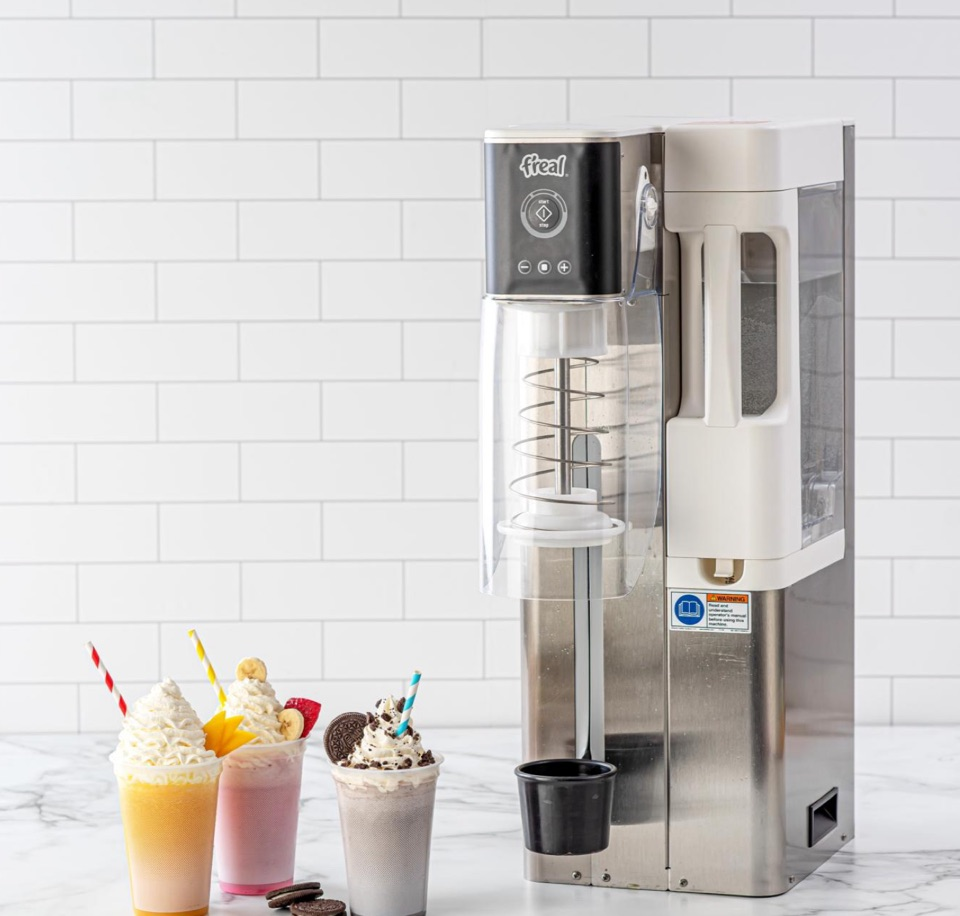
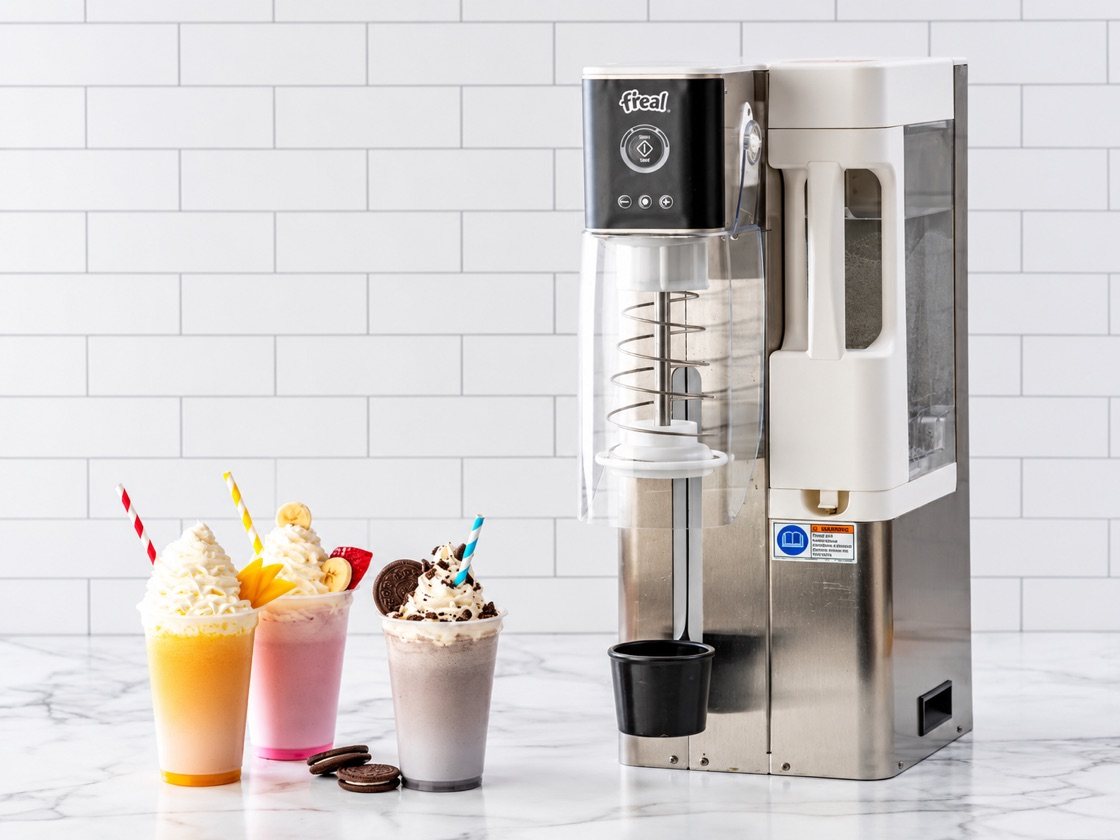
Publiceer 4976e7b

diff --git a/index.html b/index.html
@@ -9,7 +9,7 @@
 <meta name="color-scheme" content="light dark">
 <title>Virtualbite contracttool – beheer</title>
 <link rel="icon" href="data:,">
-<link rel="stylesheet" href="stijl.css?v=1792549716">
+<link rel="stylesheet" href="stijl.css?v=1792549898">
 </head>
 <body>
 <section id="login" hidden>
@@ -111,17 +111,17 @@
 
 <div id="melding" role="status"></div>
 
-<script src="config.js?v=1792549716"></script>
-<script src="gedeeld/Validatie.js?v=1792549716"></script>
-<script src="gedeeld/Adres.js?v=1792549716"></script>
-<script src="gedeeld/Berekening.js?v=1792549716"></script>
-<script src="gedeeld/Postcodes.js?v=1792549716"></script>
-<script src="gedeeld/Velden.js?v=1792549716"></script>
-<script src="gedeeld/CustomerFacing.js?v=1792549716"></script>
-<script src="gedeeld/Opvolging.js?v=1792549716"></script>
-<script src="gedeeld/Rooster.js?v=1792549716"></script>
-<script src="gedeeld/Shakes.js?v=1792549716"></script>
-<script src="gedeeld/formulier.js?v=1792549716"></script>
-<script src="app.js?v=1792549716"></script>
+<script src="config.js?v=1792549898"></script>
+<script src="gedeeld/Validatie.js?v=1792549898"></script>
+<script src="gedeeld/Adres.js?v=1792549898"></script>
+<script src="gedeeld/Berekening.js?v=1792549898"></script>
+<script src="gedeeld/Postcodes.js?v=1792549898"></script>
+<script src="gedeeld/Velden.js?v=1792549898"></script>
+<script src="gedeeld/CustomerFacing.js?v=1792549898"></script>
+<script src="gedeeld/Opvolging.js?v=1792549898"></script>
+<script src="gedeeld/Rooster.js?v=1792549898"></script>
+<script src="gedeeld/Shakes.js?v=1792549898"></script>
+<script src="gedeeld/formulier.js?v=1792549898"></script>
+<script src="app.js?v=1792549898"></script>
 </body>
 </html>

diff --git a/gedeeld/Shakes.js b/gedeeld/Shakes.js
@@ -45,7 +45,7 @@ function shakesStapHtml(esc) {
     return '<div class="sh-blok">' + (kop ? '<div class="sub-label">' + kop + '</div>' : '') + inhoud + '</div>';
   };
   return '<div class="shakes-stap">' +
-    '<img class="sh-foto" src="freal/blender.jpg?v=4" alt="Drie thick shakes naast de F\'real-blender" width="960" height="916">' +
+    '<img class="sh-foto" src="freal/blender.jpg?v=5" alt="Drie thick shakes naast de F\'real-blender" width="1120" height="840">' +
     p('Thick shakes staan standaard op het Chickito Chicken-menu: vanille, aardbei, chocolade en Cookies &amp; Cream met Oreo ' +
       '<span class="sh-label">best verkocht</span>.') +
     p('Ze worden kant-en-klaar en bevroren geleverd door onze partner Interfastfood.') +
